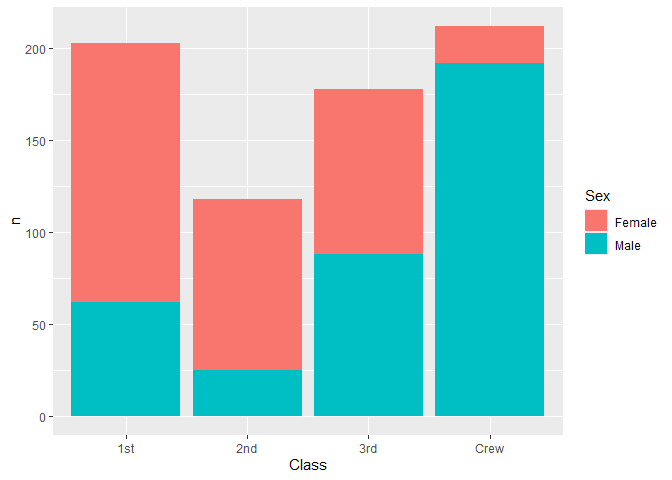
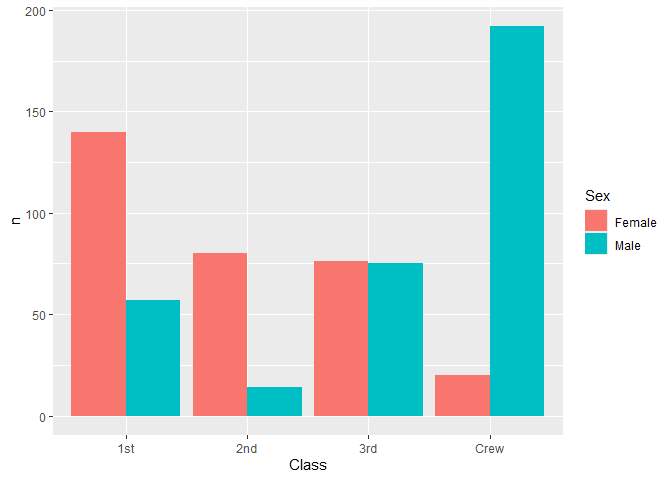
revise c01

diff --git a/data-science-curriculum-build/challenges/c01-titanic-assignment.md b/data-science-curriculum-build/challenges/c01-titanic-assignment.md
@@ -160,7 +160,7 @@ survived_q3 <-
 
 survived_q3 %>% 
   ggplot(aes(Class, n, fill = Sex)) +
-  geom_col()
+  geom_col(position = "dodge")
 ```
 
 ![](c01-titanic-assignment_files/figure-gfm/q3-task-1.png)<!-- -->
@@ -225,7 +225,7 @@ df_prop
 df_prop %>% 
   filter(Survived == 'Yes') %>%
   ggplot(aes(Class, Prop, fill = Sex)) +
-  geom_col()
+  geom_col(position = "dodge")
 ```
 
     ## Warning: Removed 2 rows containing missing values or values outside the scale range
@@ -243,17 +243,10 @@ df_prop %>%
     higher proportion of survivors, but I’m not sure if I trust the data
     to be displaying that accurately.
 - Is there anything *fishy* going on in your plot?
-  - What is the y axis here? I typically expect a proportion to show a
-    fraction of a total, so no group should have a segment in the column
-    that is greater than 1.
-  - Looking through the raw data from the provided filter step, it seems
-    that we are calculating proportion of adult and child survivors of
-    each demographic, then adding them together, which results in a
-    maximum proportion of 2 for each category. This is super misleading,
-    as there are significantly fewer children than adults in the data
-    set, and the proportion of child survivors is generally much higher
-    than adults. This gives a super disproportionate weighting in the
-    bar graph format. I take it back, this isn’t the data I wanted.
+  - Its really suspicious that all of the proportions of survivors are
+    1.0 for 1st and 2nd class. That’s definitely not accurate to what
+    actually happened on the Titanic.
+  - This is possibly due to not accounting for children separately.
 
 ### **q5** Create a plot showing the group-proportion of occupants who *did* survive, along with aesthetics for `Class`, `Sex`, *and* `Age`. Document your observations below.
 
@@ -263,9 +256,9 @@ additional variables!
 ``` r
 df_prop %>% 
   filter(Survived == 'Yes') %>% 
-  ggplot(aes(Class, Prop, fill = Age)) +
-  geom_col() +
-  facet_grid(rows = 'Sex')
+  ggplot(aes(Class, Prop, fill = Sex)) +
+  geom_col(position = "dodge") +
+  facet_grid(rows = 'Age')
 ```
 
     ## Warning: Removed 2 rows containing missing values or values outside the scale range
@@ -289,9 +282,11 @@ df_prop %>%
   highest proportion of male survivors, followed by 3rd followed by 2nd.
 - If you saw something *fishy* in q4 above, use your new plot to explain
   the fishy-ness.
-  - The proportions are all normalized out of 1, now. This plot
-    distinguishes between adults and children. At least at the current
-    level of detail, it no longer seems fishy to me.
+  - Separating out adults and children, the beavior from q4 makes more
+    sense. The survival percentage for upper-class children was very
+    high, but lower for adults, particularly adult men. It appears that
+    the q4 plot only showed the proportion of surviving children, among
+    all classes but crew, which is a super misleading sample.
 
 # Notes
 
